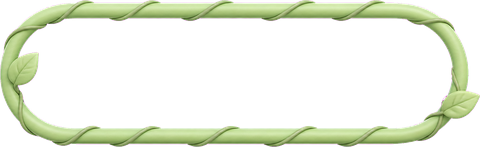
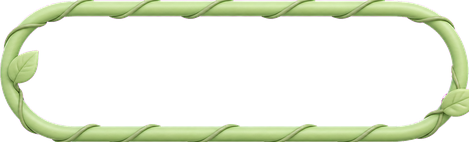
fix: 프레임 에셋 밖으로 배경색 삐짐 제거
프레임 PNG를 줄기 외곽 사각형 기준으로 정밀 크롭(wide 상15/하12px 여백 제거 등) —
100%/100% 스트레치 시 줄기 외곽선이 버튼 가장자리와 일치. 함께 공부 CTA·그룹 방 행
라운드를 프레임 곡률에 맞춰 20/18px로 조정해 모서리 삐짐도 제거.

diff --git a/src/index.css b/src/index.css
@@ -204,7 +204,7 @@
   /* ── 함께 공부 진입 CTA (홈 → 함께 탭) ── */
   .together-cta {
     display: flex; align-items: center; gap: 12px; width: calc(100% - 32px); margin: 4px 16px 10px;
-    background: var(--panel); border: 1px solid var(--line); border-radius: 14px; padding: 12px 14px; text-align: left;
+    background: var(--panel); border: 1px solid var(--line); border-radius: 20px; padding: 12px 14px; text-align: left;
   }
   .together-cta:hover { border-color: var(--accent); }
   .together-cta .tc-body { flex: 1; display: flex; flex-direction: column; gap: 1px; }
@@ -254,7 +254,7 @@
   .gl-list { display: flex; flex-direction: column; gap: 8px; }
   .gl-room {
     display: flex; align-items: center; gap: 10px;
-    background: var(--bg); border: 1px solid var(--line); border-radius: 12px;
+    background: var(--bg); border: 1px solid var(--line); border-radius: 18px;
     padding: 10px 12px; cursor: pointer; transition: border-color .15s, background .15s;
   }
   .gl-room:hover { border-color: var(--accent); }
